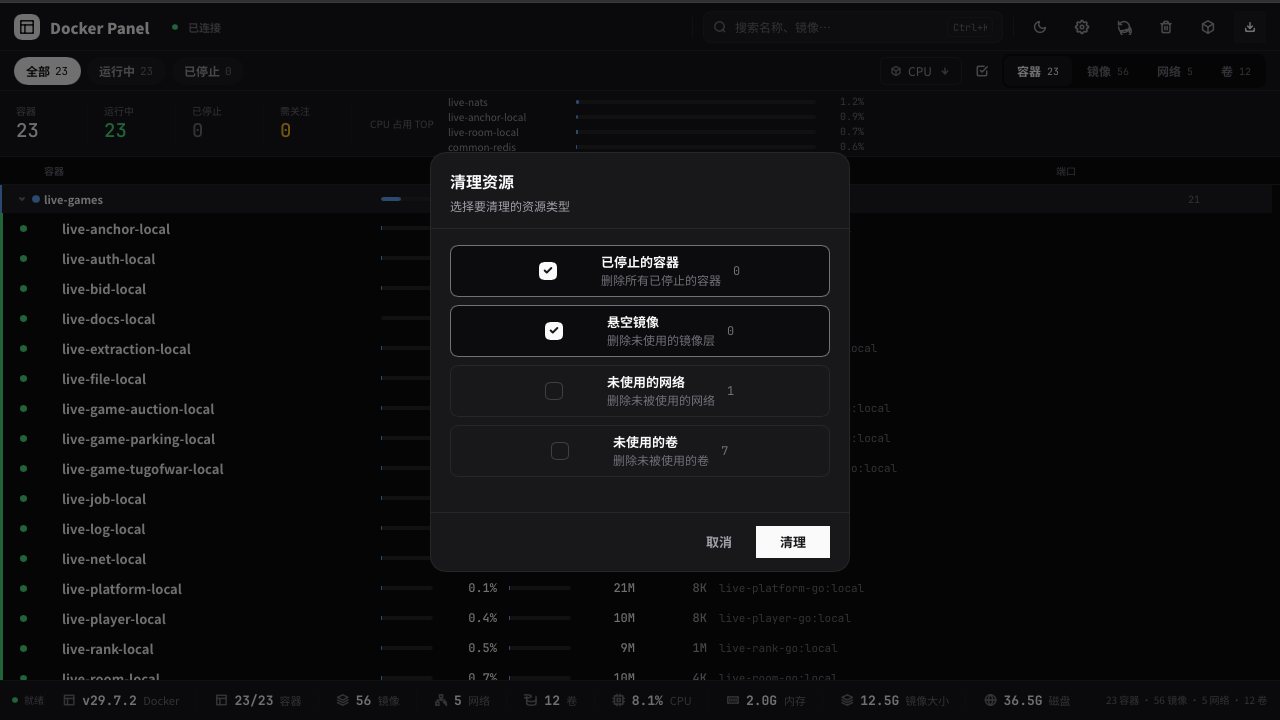
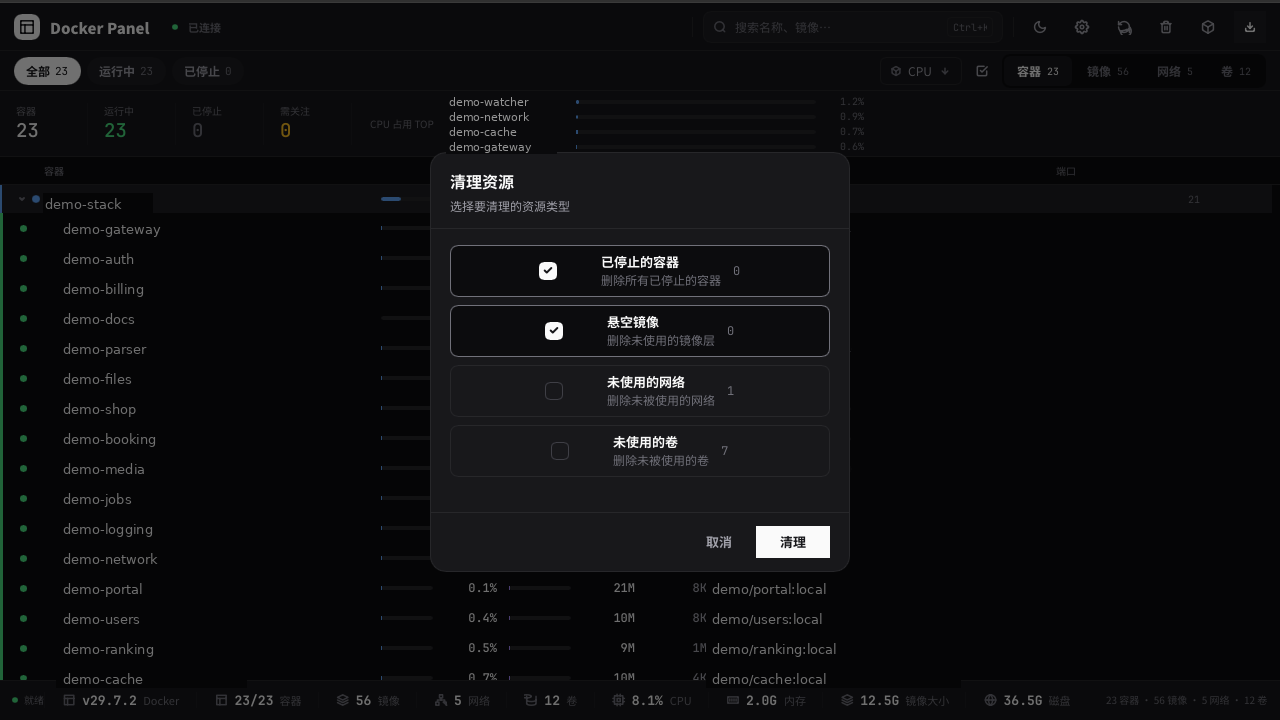
docs: 界面预览四张截图脱敏（真实业务标识换为中性示例值）

diff --git a/CHANGELOG.md b/CHANGELOG.md
@@ -22,7 +22,7 @@
 - **修正文档与实现不一致的三处**：`src/log_status.rs` 实际定义 **4 条**日志状态文案（重连中 / 已恢复 / 已停止 / 洪峰抽样），README、`docs/architecture.md`、`docs/arch/threading.md` 均写「3 条」，四态表还漏了「洪峰抽样」行；`src/config.rs` 文件头注释写「7 个固定字段」，实际 `AppConfig` 为 **15 个**；`THIRD-PARTY-NOTICES.md` 的复核落款停在 0.6.0，已改为随 `Cargo.lock` 复核。
 - **文档补「第一次贡献」端到端流程，并把自动重启机制同步到新实现**：`CONTRIBUTING.md` 新增从 fork、切分支、过四项门禁到发起 PR 的完整命令序列，附新手最常卡住的五处（PR 目标选 `develop`、不要从 `master` 切分支、提交信息格式、文档同步义务、分支落后如何处理）与 Gitee 侧的差异说明。`docs/configuration.md` 与 `docs/arch/threading.md` 原先把自动重启写成「3s 后启动新二进制并退出」，与修复后的实现不符（`5c63c0e` 起）——现在改为「3s 倒计时仅退出事件循环，再由 `main` 退出流程先 `release_then` 释放单实例锁、后经 launcher 延时 2s `exec`」，并补上为什么顺序不能反；同时修正 `src/ui_update/update.rs:93` 这处因该修复而失效的行号引用。
 - **新增路线图，文档导航全线接入**：`docs/roadmap.md` 只写三类内容——当前阶段（已交付能力）、候选方向（批量操作 / Compose 导入导出 / 定时清理 / 远程连接等，**明确标注未排期、不构成承诺**）、明确不做（非 Wayland 后端适配、Electron 外壳、GPU 渲染、定时兜底轮询、守护进程管理、遥测）。README 文档地图、AGENTS 文档导航、`docs/agents-rules.md` §6.2 文档清单与 §6.1 触发表（新增「功能增删 / 方向调整」事件）、两站 Wiki 的主仓文档表与侧栏全部接入；`scripts/check-docs.py` 的受控清单由 18 份扩到 19 份。
-- **界面预览截图按当前版本重拍**：四张图（容器台账 / 镜像列表 / 右侧抽屉 / 清理弹窗）原为 2026-10-25 所拍，此后 `ui/` 有 20 个提交（磁盘列阈值、列表外壳统一、采样过期可见化、更新弹窗精简等）已与界面不符。本轮统一由 `agkit shot --app docker-panel` 按 xdg app_id 定位窗口截取（1280x720，深色主题，零弹窗），仅裁去窗口标题栏，未做内容合成或标注；README 截图说明同步写清这一点。
+- **界面预览截图按当前版本重拍**：四张图（容器台账 / 镜像列表 / 右侧抽屉 / 清理弹窗）原为 2026-10-25 所拍，此后 `ui/` 有 20 个提交（磁盘列阈值、列表外壳统一、采样过期可见化、更新弹窗精简等）已与界面不符。本轮统一由 `agkit shot --app docker-panel` 按 xdg app_id 定位窗口截取（1280x720，深色主题，零弹窗），仅裁去窗口标题栏。图上真实业务标识（容器名、镜像名、分组名、容器 ID、PID、创建/启动时间、挂载路径）已替换为中性示例值（`demo-*`），手法是「同色底覆盖 + 同字号同色重绘」——不是黑条或马赛克，列宽与版面完全保持；README 截图说明与 AGENTS.md R1 配方（新增脱敏步骤）同步写清这一点。
 - **全站文档版面重排，并新增可执行的排版规范**：新增 `docs/style-guide.md`（页头三件套、编号章节、五种提示块口径、表格优先、折叠口径、页脚导航、两站语法白名单）与 `scripts/check-docs.py`（18 份受控文档 + Wiki 页面的版面 lint：栅栏配对、折叠配对、页内锚点、相对链接、禁用写法、占位符、R2 正文行数、章节编号连续）。README、四份社区文档、四份用户向文档、五份实现向文档与两站 Wiki 六页全部按规范重排：长清单与结构树改折叠、并列信息改表格、关键约束用提示块前置、每节结论先行、页脚补三栏导航。技术事实（命令、路径、行号、报错原文、常量、版本号）逐条回查源码与 HEAD，未作改动。
 
 ## [0.7.14] - 2026-11-15

diff --git a/AGENTS.md b/AGENTS.md
@@ -35,7 +35,11 @@ python3 -c "from PIL import Image; Image.open('/tmp/raw.png').crop((0,32,1280,75
 agkit desktop disable
 ```
 
-窗口高度取 752 再裁掉顶部 32px 标题栏 → 正好 1280x720。截图期间临时 `gsettings set org.gnome.desktop.notifications show-banners false`（**必须用 trap 还原**）；抽屉 / 清理弹窗这类需要交互的状态用环境变量门控的**临时状态注入**（`ui_apply::open_drawer` / `cleanup_counts()` + `set_cleanup_open(true)`）构造，**不要注入键鼠事件**，截完立刻移除注入代码。
+窗口高度取 752 再裁掉顶部 32px 标题栏 → 正好 1280x720。
+
+**成品图必须脱敏**：`assets/screenshots/` 是公开产物，不允许出现真实业务标识。容器名 / 镜像名 / 分组名一律换成中性示例值（`demo-gateway`、`demo/gateway:local`、`demo-stack`），容器 ID、PID、创建 / 启动时间、挂载路径同理；CPU 占用 TOP4 面板、抽屉标题与副标题、`详情` 页的 ID / PID / 时间 / 挂载都在范围内。做法是**同色底覆盖 + 同字号同色重绘**（PIL 按本地背景色填矩形，`DejaVuSans` 13px 画字；抽屉右栏背景是 `#18181b`，列表行是 `#0c0c0e`，被弹窗的遮罩压暗的图要取遮罩后的实际底色），**不要用黑条或马赛克**——那会破坏列宽对齐与观感。改完逐张放大复核（至少名称列、镜像列、抽屉 ID/时间区三处），确认没有残留真实标识再提交。
+
+截图期间临时 `gsettings set org.gnome.desktop.notifications show-banners false`（**必须用 trap 还原**）；抽屉 / 清理弹窗这类需要交互的状态用环境变量门控的**临时状态注入**（`ui_apply::open_drawer` / `cleanup_counts()` + `set_cleanup_open(true)`）构造，**不要注入键鼠事件**，截完立刻移除注入代码。
 
 Slint MCP 已降级为**调试数据暴露**通道：只在需要读元素树 / 属性值（如逐列核对 `absolutePosition.x` 与 `size.width`、确认某个属性是否被赋值）时，临时构建 `cargo build --release --features slint/mcp` 并用 `get_element_tree` / `get_element_properties`（Trae MCP：`"slint-mcp": { "type": "http", "url": "http://127.0.0.1:8080/mcp" }`）。它不再承担截图与验收，验收一律以 `agkit shot` 的出图为准。
 

diff --git a/README.md b/README.md
@@ -44,7 +44,7 @@ Rust 单二进制 · Slint 原生 GUI · 纯软件渲染
 | **右侧抽屉（详情 / 日志 / 环境）** | **清理弹窗** |
 | ![右侧抽屉](assets/screenshots/drawer.png) | ![清理弹窗](assets/screenshots/cleanup.png) |
 
-<sub>截图来自 Linux + Wayland + 深色主题，由 `agkit shot --app docker-panel` 按 xdg app_id 定位窗口截取（见 [AGENTS.md](AGENTS.md) R1）；仅裁去窗口标题栏，未做内容合成、标注或调色。</sub>
+<sub>截图来自 Linux + Wayland + 深色主题，由 `agkit shot --app docker-panel` 按 xdg app_id 定位窗口截取（见 [AGENTS.md](AGENTS.md) R1），仅裁去窗口标题栏。**容器名、镜像名、分组名、容器 ID、PID、创建/启动时间与挂载路径已替换为中性示例值**（`demo-*`），版面、列宽与数值未作改动。</sub>
 
 ## 2. 功能特性
 
